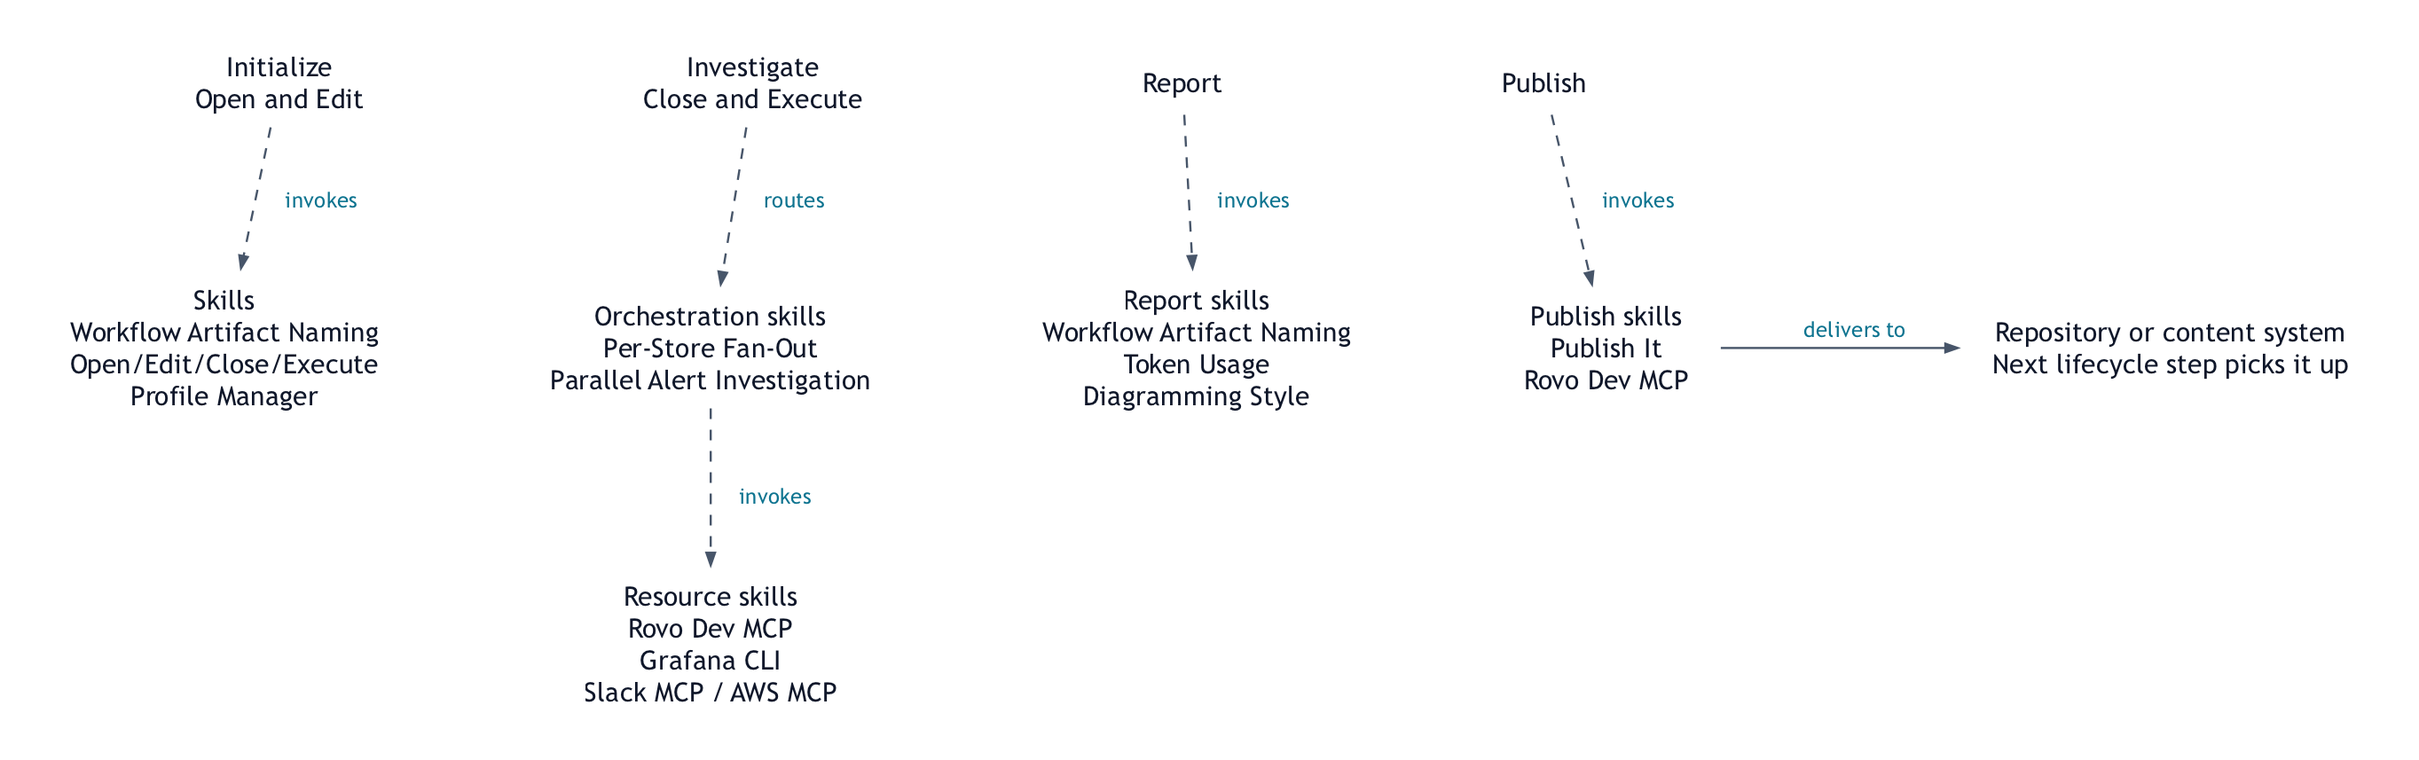
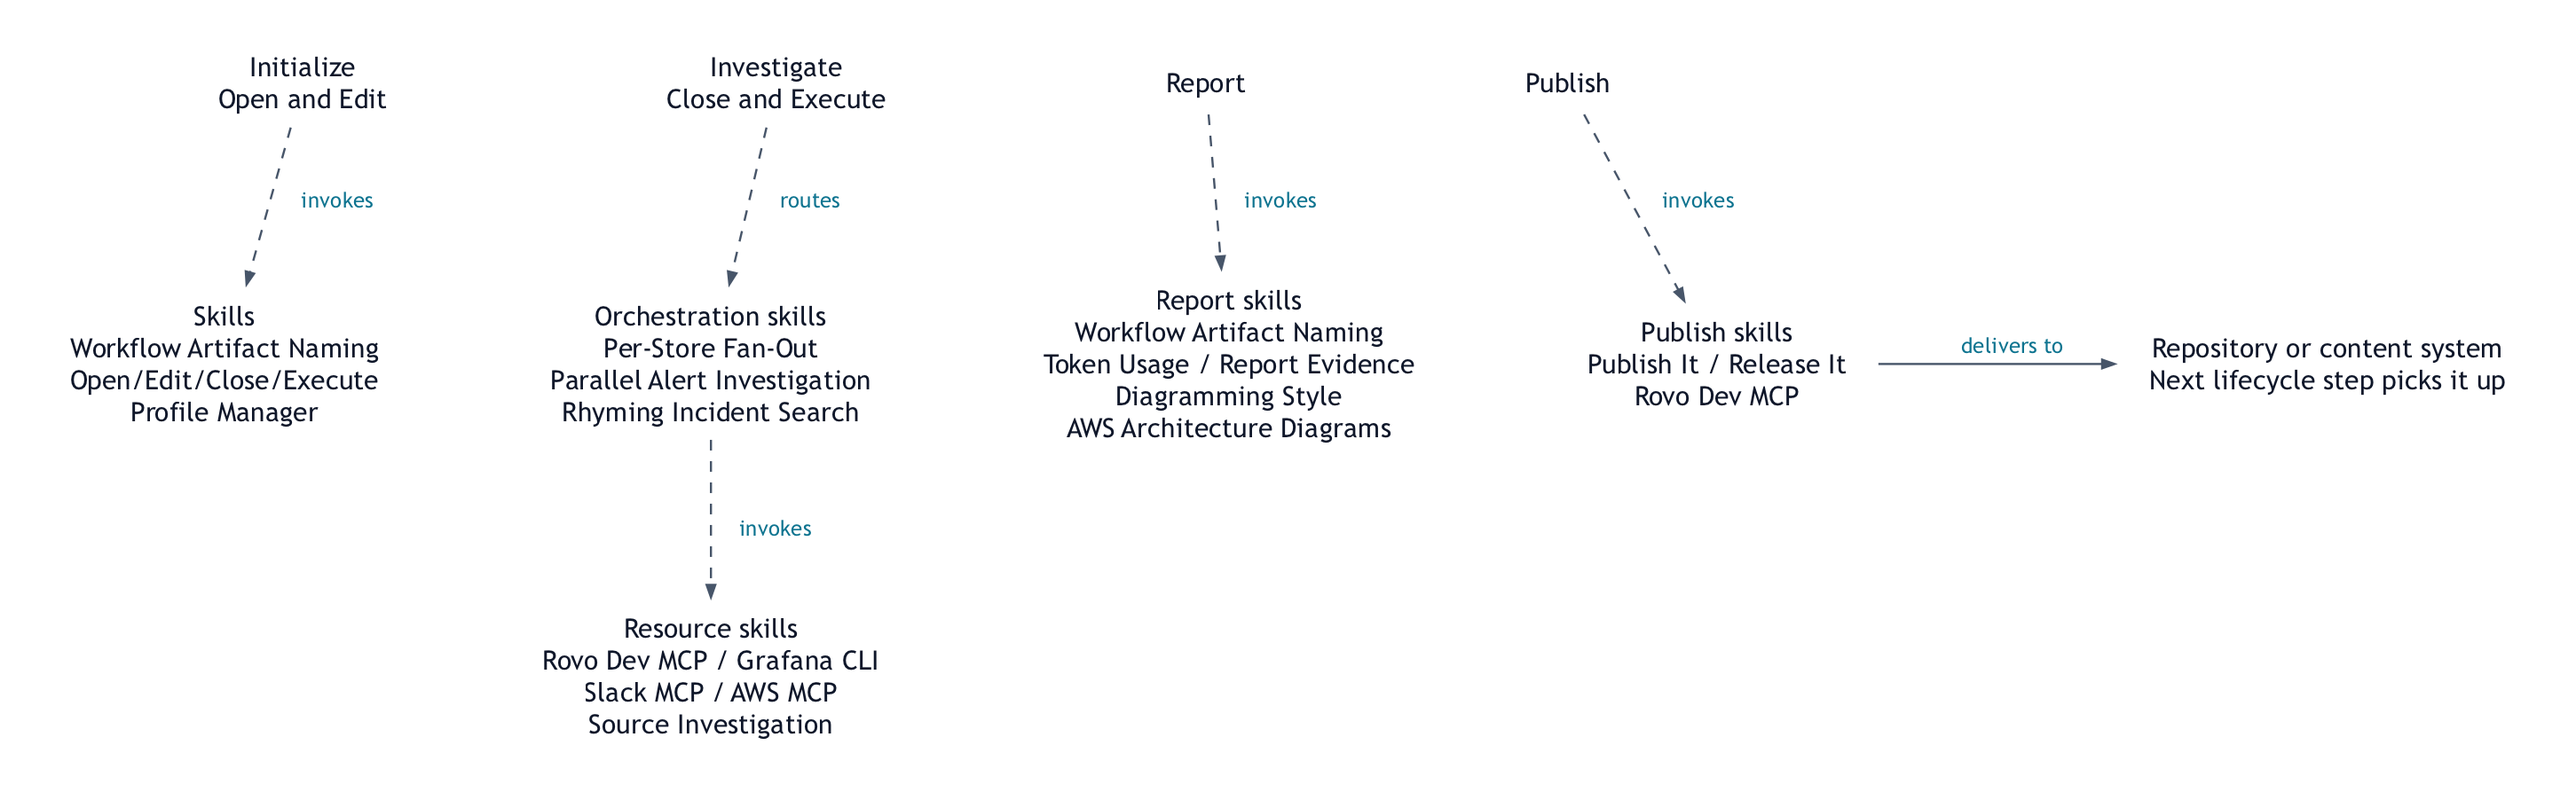
Refresh the diagrams for catalog consistency and enable the coverage gate
The routing view now shows Rhyming Incident Search among orchestration
skills, Source Investigation among resource skills, Report Evidence and AWS
Architecture Diagrams among report skills, and Release It among publish
skills, with a kebab-case coverage manifest the docs drift checker verifies
against the root routing table. All five diagram sets re-rendered through
scripts/render-workflow-diagram.sh (only the routing set changed). README alt
text matches, and the routing-diagram coverage gate is enabled in the docs
drift policy.

diff --git a/README.md b/README.md
@@ -154,7 +154,7 @@ page configured in the task.
 
 <picture>
   <source media="(prefers-color-scheme: dark)" srcset="diagrams/DIAGRAM-investigation-skill-routing-dark.png">
-  <img alt="Initialize in Open and Edit mode invokes the naming, editor, and profile skills; Investigate in Close and Execute mode routes to the orchestration skills, Per-Store Fan-Out and Parallel Alert Investigation, which invoke the resource skills; Report invokes the naming, token usage, and diagramming skills; Publish invokes Publish It and Rovo Dev MCP, which deliver the artifact to a repository or content system where the next lifecycle step picks it up." src="diagrams/DIAGRAM-investigation-skill-routing-light.png">
+  <img alt="Initialize in Open and Edit mode invokes the naming, editor, and profile skills; Investigate in Close and Execute mode routes to the orchestration skills, Per-Store Fan-Out, Parallel Alert Investigation, and Rhyming Incident Search, which invoke the resource skills including Source Investigation; Report invokes the naming, token usage, report evidence, diagramming, and AWS architecture diagram skills; Publish invokes Publish It, Release It, and Rovo Dev MCP, which deliver the artifact to a repository or content system where the next lifecycle step picks it up." src="diagrams/DIAGRAM-investigation-skill-routing-light.png">
 </picture>
 
 **Figure 2 — Skill routing.** The same lifecycle expanded into the skill that
